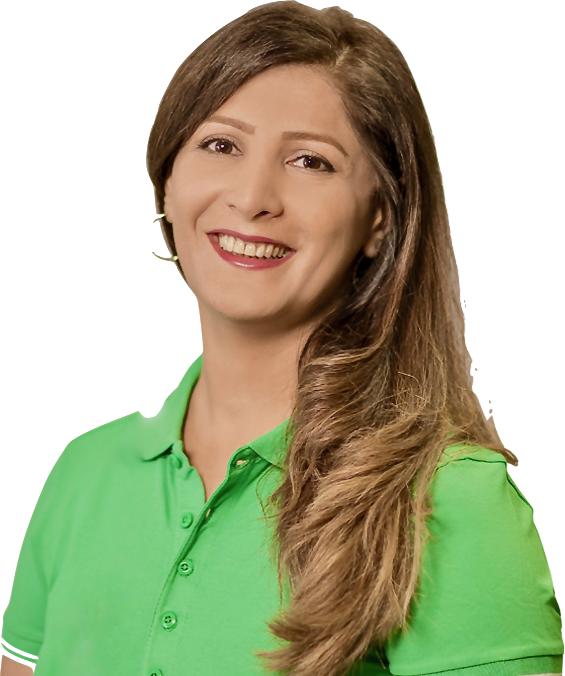
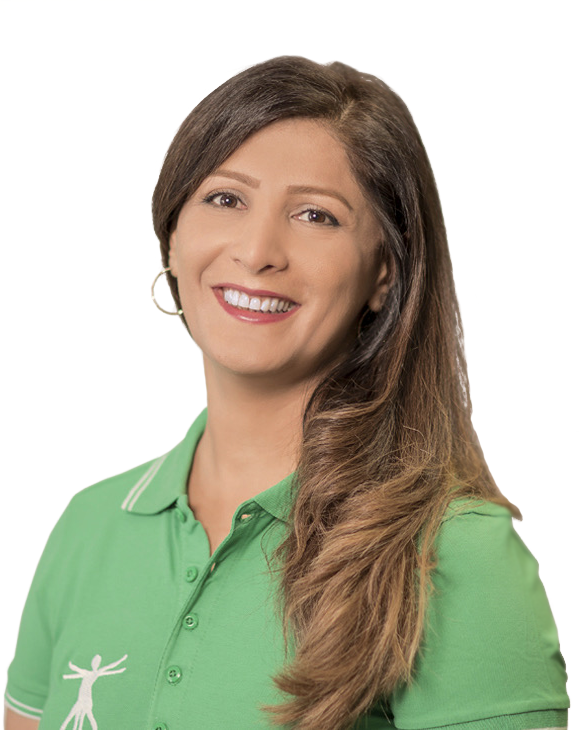
add new hero image and some design corrections

diff --git a/src/styles/components/Header.module.css b/src/styles/components/Header.module.css
@@ -96,19 +96,10 @@
 .right {
     grid-column: 5/-1;
     margin-bottom: -10vh;
-    background-image: linear-gradient(120deg,
-    rgba(90, 164, 255, 0.15),
-    rgba(0, 252, 97, 0.05)), url("../../img/f.png");
+    background-image: url("../../img/f.png");
     background-size: cover;
     background-repeat: no-repeat;
     background-position: center top;
-}
-
-@media (max-width: 1200px) {
-    .nav a {
-        font-size: .7rem;
-        display: contents;
-    }
 }
 
 @media (max-width: 768px) {
@@ -154,10 +145,6 @@
         height: 100vh;
     }
 
-    .nav a {
-        display: none;
-    }
-
     .helper {
         justify-content: flex-start;
     }
@@ -186,8 +173,9 @@
     }
 
     .right {
-        height: 45vh;
+        height: 50vh;
         grid-column: 3/-1;
+        margin-left: -2rem;
     }
 
     .svg {
@@ -207,10 +195,6 @@
     .subHeading {
         font-size: .9rem;
     }
-
-    .right {
-        height: 40vh;
-    }
 }
 
 @media (max-width: 320px) {
@@ -226,6 +210,11 @@
     .h1 {
         font-size: .72rem;
         margin-bottom: .5rem;
+    }
+
+    .right {
+        height: 45vh;
+        margin-left: 0;
     }
 }
 

diff --git a/src/components/Prices.js b/src/components/Prices.js
@@ -7,7 +7,7 @@ const Prices = () => {
         <React.Fragment>
             <section className={styles.prices} id={'prices'}>
                 <div className={styles.wrapper}>
-                    <h2 className={styles.heading}>Preise &mdash; 120€ pro 60 Sekunden</h2>
+                    <h2 className={styles.heading}>Preise &mdash; 120€ pro 60 Minuten</h2>
                     <div>
                         <p>Ich bin eine Privatpraxis und habe keinen Vertrag mit einer gesetzlichen Krankenkasse.
                             Ich stelle meine Rechnung direkt an Sie als Patient und Sie reichen diese an Ihre private

diff --git a/src/styles/components/Navbar.module.css b/src/styles/components/Navbar.module.css
@@ -43,3 +43,16 @@
     background-color: var(--custom-green);
     width: 100%;
 }
+
+@media (max-width: 1200px) {
+    .nav li {
+        font-size: .7rem;
+        display: contents;
+    }
+}
+
+@media (max-width: 425px) {
+    .nav li {
+        display: none;
+    }
+}
